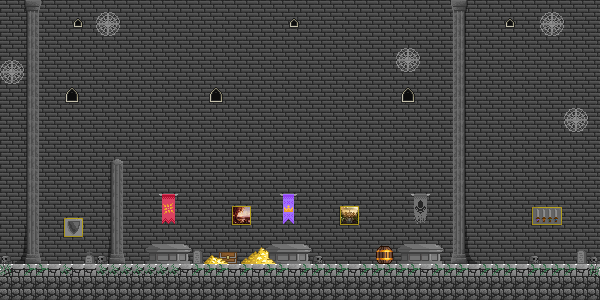
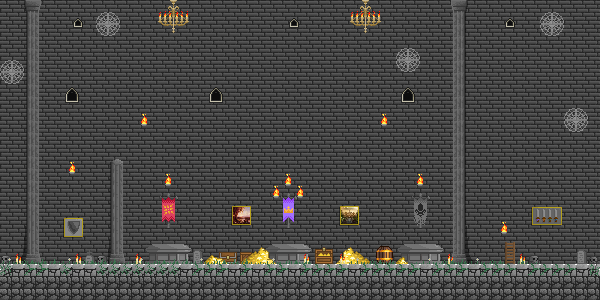
minor changes added, works ok

diff --git a/js/Game.js b/js/Game.js
@@ -5,7 +5,7 @@ class Game {
         this.bulletArr = [];
         this.gameOver = gameOver;
         this.gameWin = gameWin;
-        this.win = new Win(530, 240, 20, 25);
+        this.win = new Win(475, 239, 20, 25);
     }
 
     _generateBullet(){
@@ -21,6 +21,8 @@ class Game {
             if(e.code === "KeyA"){ 
                 this.player.goLeft();
             }
+        })
+        document.addEventListener('keypress', (e) => {
             if(e.code === "Space") { 
                 this.player.jump();
             }
@@ -35,6 +37,7 @@ class Game {
         this._clean();
         this.player._draw();
         this.win._draw(this.ctx, this.win);
+        //this.win._trollAway();
         this.bulletArr.forEach(bullet => bullet._draw());
         this.bulletArr.forEach(bullet => bullet._goLeft());
         this.bulletArr.forEach(bullet => bullet._disappear(this.bulletArr));
@@ -55,6 +58,7 @@ class Game {
     start() { 
         this.player._draw();
         this._movement();
+        //this.win._trollAway();
         //drawLevel1();
         const bulletSpawn = setInterval(this._generateBullet.bind(this), 3000);        window.requestAnimationFrame(this._update.bind(this));
     }

diff --git a/js/winflag.js b/js/winflag.js
@@ -20,4 +20,15 @@ class Win {
            (win.x > (player.x + player.width))
             );
     } 
+
+    _trollAway(player){
+        let doorAway = (player) => {
+         if((player.x) >= ( this.x -30)  && (this.x <= 530)){ 
+                         this.x +=2;    
+         }    else {
+            clearInterval(trollDoor);
+         }
+        }
+        const trollDoor = setInterval(doorAway, 25);
+    }
 }

diff --git a/js/bullet.js b/js/bullet.js
@@ -30,6 +30,5 @@ class Bullet{
                ((bullet.x + bullet.width) < player.x) ||
                (bullet.x > (player.x + player.width))
                 );
-    
    } 
 }
